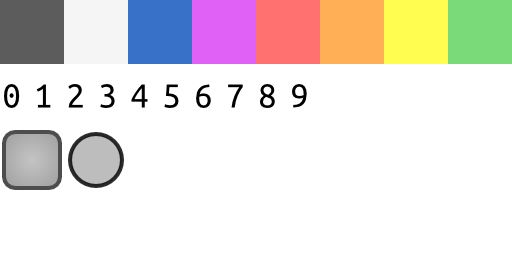
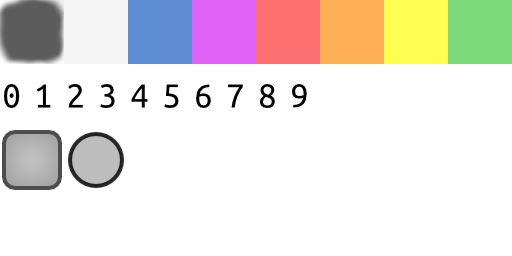
got some weird shadows. Now need a floor.

Changed region(s): [[0.25, 0.0, 0.375, 0.25], [0.0, 0.0, 0.125, 0.25]]

diff --git a/main.js b/main.js
@@ -129,20 +129,20 @@ Stage(function(stage) {
         //     offsetY: spacing * row    - shear * depth + spacing,
         //     scale:   1 - perspective * depth
         //
-        /*
         const heightScale = 1 - (2 - row) * 0.1;
         const shadowPosition = {
             // It's the scaling that's doing it!
-            offsetY: cellPosition({row: 0, column, depth}).offsetY + spacing * (2 - row),
-            scaleY:  0.5 * heightScale,
-            scaleX:  heightScale
+            // offsetY: cellPosition({row: 0, column, depth}).offsetY + spacing * (2 - row),
+            offsetY: spacing * (2 - row) + 0.5 * spacing,
+            offsetX: shear,
+            scaleY:  0.5 * heightScale * cellScale(depth),
+            scaleX:  heightScale * cellScale(depth)
         };
 
-        Stage.image(['red', 'green', 'blue'][row])
+        Stage.image('dark')
              .appendTo(cell)
              .pin(shadowPosition)
              .pin({skewX: -1});
-        */
 
         // The visible part of the cell.
         const cellFill = Stage.image('blue')
